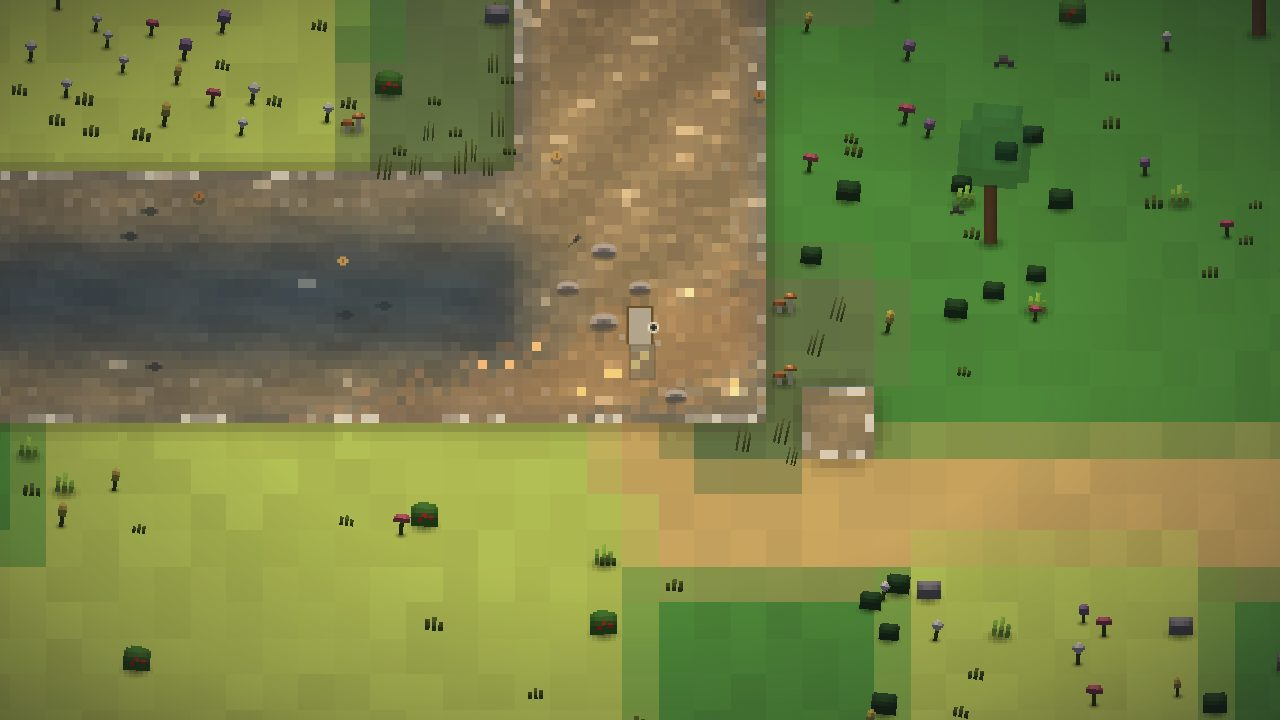
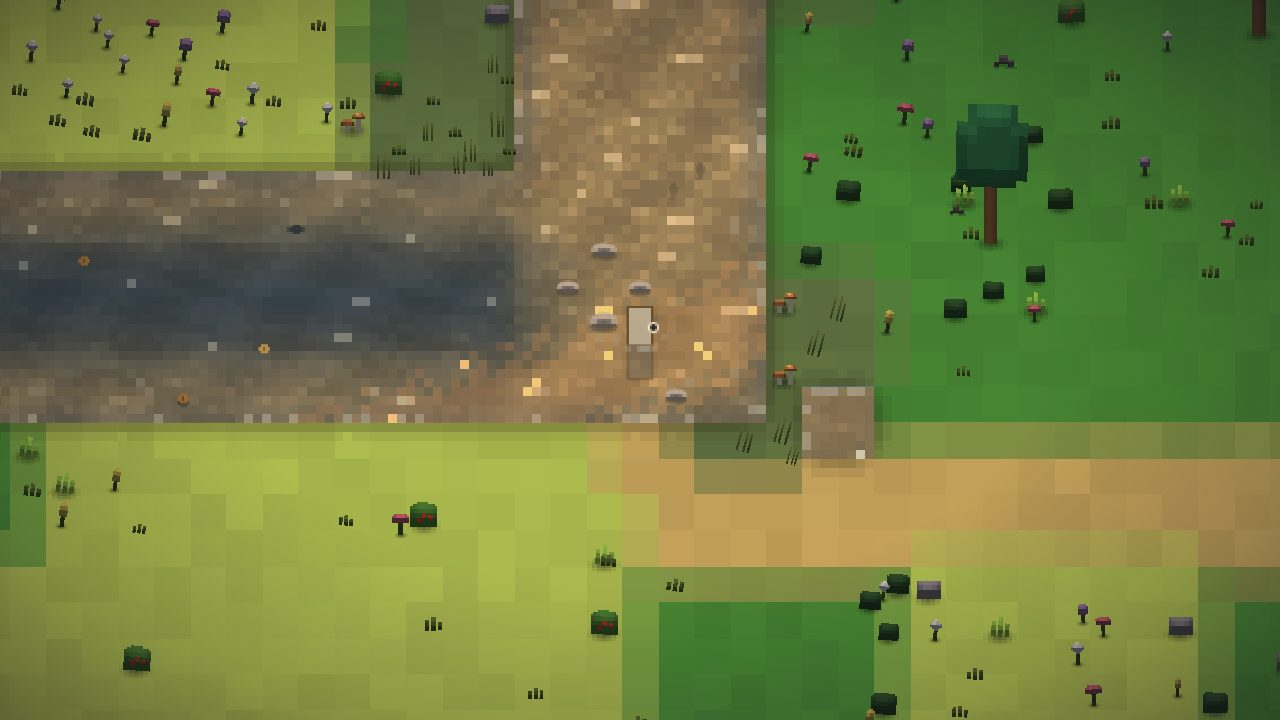
fix(vitrine): la canopée reste pleine sur les photos — le fondu masquait l'art
Demande d'Alexis : « j'aimerais que dans les images générées, il n'y ait
pas la couronne qui change l'opacité des houppiers ».

C'EST UN RETRAIT D'AFFORDANCE, la même famille que ce que l'atelier
faisait déjà. `crownAlpha` efface la cime au-dessus du joueur pour qu'il
voie où il marche : une aide de JEU. Sur une CAPTURE, c'est un défaut —
on photographie une forêt de troncs sous des houppiers à 12 % d'opacité.
Le HUD, le tampon de build et les noms de lieux étaient déjà masqués pour
exactement cette raison ; la canopée rejoint la liste.

`setCanopeePleine` vit sur la vue, vaut FAUX par défaut, et n'est appelé
que par le harnais smoke — le jeu joué ne peut pas tomber dessus.

ET LA CONSÉQUENCE DÉPASSE LA DEMANDE : le fondu me cachait ce que je
jugeais. Toutes mes vérifications de sprite d'arbre de la journée ont été
faites sur des captures aux houppiers fantômes ; quand je notais « c'est
correct mais pas franc », je regardais un sprite que l'image n'affichait
pas. Le bosquet de crête, rephotographié canopée pleine, est
méconnaissable. Quatrième fois de la journée qu'une faute ne se voit qu'à
l'image — la première où l'image elle-même mentait.

CE QU'IL NE FAUT PAS EN CONCLURE : c'est le bon réglage pour le carrousel
et pour montrer un sprite, le MAUVAIS pour juger la lisibilité EN JEU
d'une zone dense — là, le fondu est le sujet. Ne pas généraliser sans y
penser.

Les cinq images du menu sont rejouées avec (6/6 prises, feu compris : le
[…]

diff --git a/packages/client/src/scenes/world/snapshot-view.ts b/packages/client/src/scenes/world/snapshot-view.ts
@@ -485,6 +485,19 @@ export class SnapshotView {
   /** Pool SÉPARÉ : un arbre est deux sprites (tronc trié avec les acteurs,
    * houppier dans sa bande propre). Les autres nœuds n'en consomment aucun. */
   private crownPool: Phaser.GameObjects.Image[] = []
+  /**
+   * LA CANOPÉE RESTE PLEINE — pour les images, et pour elles seules.
+   *
+   * `crownAlpha` est une aide de JEU : la cime au-dessus de toi s'efface pour que tu voies où
+   * tu marches. Sur une CAPTURE, c'est un défaut — l'atelier photographie une forêt de troncs
+   * sous des houppiers fantômes, et la moitié de l'art ne se voit pas (constat d'Alexis).
+   *
+   * L'interrupteur ne sert donc qu'au harnais smoke, au même titre que le masquage du HUD, du
+   * tampon de build et des noms de lieux : ce sont tous des retraits d'AFFORDANCE, des choses
+   * que le joueur veut et que la photo ne veut pas. Il est FAUX par défaut et personne d'autre
+   * ne l'appelle — le jeu joué ne peut pas tomber dessus par accident.
+   */
+  private canopeePleine = false
   /** Pool des SOUCHES/traces laissées par la dérive (spec recolte-vivante D1). */
   private stumpPool: Phaser.GameObjects.Image[] = []
   /** Index id→nœud pour appliquer les deltas de stock en O(1). */
@@ -1101,6 +1114,11 @@ export class SnapshotView {
     }
   }
 
+  /** Fige la canopée à l'opacité pleine — l'atelier photo, jamais le jeu (cf. `canopeePleine`). */
+  setCanopeePleine(v: boolean): void {
+    this.canopeePleine = v
+  }
+
   /** La carte et la seed du monde — d'elles dépend l'essence de chaque arbre. */
   setPeuplement(map: WorldMap, seed: number): void {
     this.carte = map
@@ -1332,7 +1350,7 @@ export class SnapshotView {
         const dx = playerX - (tx + 0.5)
         const dy = feetY - (ty + 1)
         const d = Math.sqrt(dx * dx + dy * dy)
-        crown.setAlpha(crownAlpha(d))
+        crown.setAlpha(this.canopeePleine ? 1 : crownAlpha(d))
         // La canopée prend le vent, elle aussi. Sans ça, la forêt reste une photo
         // posée sur un sol qui remue — et c'est le contraste qui trahit le décor.
         // Origine (0.5, 1) : le houppier bascule autour du haut du tronc.

diff --git a/docs/decisions.md b/docs/decisions.md
@@ -616,3 +616,4 @@ Brainstorm de session, cinq décisions actées une à une. Périmètre serré : 
 
 
 - 2026-07-29 — [DA/client] **LE CONIFÈRE ÉTAIT PLUS LARGE QU'UN FEUILLU — et c'est pour ça qu'un bosquet sortait en NAPPE.** Constat d'Alexis sur le jeu : *« c'est moi ou les pins ont un rendu pas ouf ? »* Non, ce n'était pas lui. ① **DEUX FAUTES QUI S'ADDITIONNAIENT, et la première est un contresens de DA.** (a) Le houppier DESSINÉ du pin faisait **56 px** contre **31** pour l'arbre ordinaire — **78 % plus large**. J'avais construit une pyramide haute en oubliant de la resserrer, alors que l'étroitesse EST l'identité d'un conifère. (b) Mes trois pins partageaient le MÊME ton — or l'albédo `_lit` est UNIFORME : ni liseré ni ombrage ne sépare deux cimes qui se touchent. ② **C'EST LA DENSITÉ QUI RÉVÈLE, et mon premier peuplement de test mentait.** `ARBRES_FORET_PAS = 5` donne ~0,2 arbre par tuile, soit **un arbre toutes les 2,2 tuiles (36 px)**. Des cimes de 56 px à 36 px d'écart se recouvrent forcément ; à ton identique, elles se SOUDENT. Mon banc d'essai les espaçait de 60 px — il montrait de jolis sapins et cachait le seul défaut qui comptait. *Un peuplement de test qui n'est pas à la densité du jeu ne teste pas le jeu.* ③ **LE CORRECTIF** : la base du pin passe de 0,88 à **0,46** de sa boîte, et chaque variante reçoit sa famille — pin moyen, vieux pin plus SOMBRE (et sa cime devient CASSÉE, plutôt que volumineuse : c'est par là qu'un vieux conifère se signe), sapin jeune plus clair et vif, mélèze olive. Vérifié hors ligne À LA VRAIE DENSITÉ avant de toucher au code : les conifères étroits restent lisibles **même quand ils se touchent**, là où les cubes des feuillus, eux, se soudent. ④ **CE QUI N'EST PAS UN DÉFAUT, et qu'il faut savoir** : vu de l'INTÉRIEUR d'un bois, `crownAlpha` efface les cimes autour du joueur — il reste une forêt de troncs. C'est le disque de découvert qui fait son travail, il s'applique aux feuillus pareil, et il est antérieur à ce chantier. Mais une cime plus étroite laisse voir plus de tronc : si l'intérieur paraît clairsemé en playtest, le bouton est `CROWN_R_IN/OUT` — celui que j'avais refusé de toucher sur spéculation, et qui a désormais une raison. ⑤ **CE QUE ÇA DIT DE LA MÉTHODE** : la planche de sprites, le peuplement de test et même la capture in-game D'UN SEUL ARBRE ne montraient rien. Il a fallu **agrandir ×4 une capture de jeu à la bonne densité** pour voir la nappe. Le grief d'Alexis a été plus rapide que trois de mes vérifications — et c'est la troisième fois de la journée qu'une faute ne se voit qu'à l'image. `check` ✓ · 19 gardes vertes · carrousel du menu rejoué avec les sprites finaux.
+- 2026-07-29 — [DA/outillage] **LA CANOPÉE RESTE PLEINE SUR LES PHOTOS — et le fondu masquait mon propre travail.** Demande d'Alexis : *« j'aimerais que dans les images générées, il n'y ait pas la couronne qui change l'opacité des houppiers ».* ① **C'EST UN RETRAIT D'AFFORDANCE, la même famille que ce que l'atelier faisait déjà.** `crownAlpha` efface la cime au-dessus du joueur pour qu'il voie où il marche : c'est une aide de JEU. Sur une CAPTURE, c'est un défaut — on photographie une forêt de troncs sous des houppiers à 12 % d'opacité. L'atelier masquait déjà le HUD, le tampon de build et les noms de lieux pour exactement la même raison ; la canopée rejoint la liste. `setCanopeePleine` vit sur la vue, vaut FAUX par défaut, et n'est appelé que par le harnais smoke — le jeu joué ne peut pas tomber dessus. ② **LA CONSÉQUENCE QUI DÉPASSE LA DEMANDE, et c'est elle qui compte : le fondu me cachait ce que je jugeais.** Toutes mes vérifications de sprite d'arbre de la journée ont été faites sur des captures où les houppiers étaient fantômes. Quand je notais « c'est correct mais pas franc », je regardais un sprite que l'image n'affichait pas — et je ne savais pas démêler « le dessin est raté » de « le disque fait son travail ». Le bosquet de crête, rephotographié canopée pleine, est méconnaissable : quatre variantes distinctes, une lisière lisible. **Quatrième fois de la journée qu'une faute ne se voit qu'à l'image — et la première où l'image elle-même mentait.** ③ **CE QU'IL NE FAUT PAS EN CONCLURE** : l'interrupteur est le bon réglage pour le carrousel et pour montrer un sprite, et le MAUVAIS pour juger la lisibilité EN JEU d'une zone dense — là, le fondu est le sujet. Ne pas le généraliser à tous les scénarios sans y penser. ④ Les cinq images du menu sont rejouées avec (6/6 prises, feu compris — le timeout large de 90 s a tenu). `check` ✓ · `lint` ✓.
